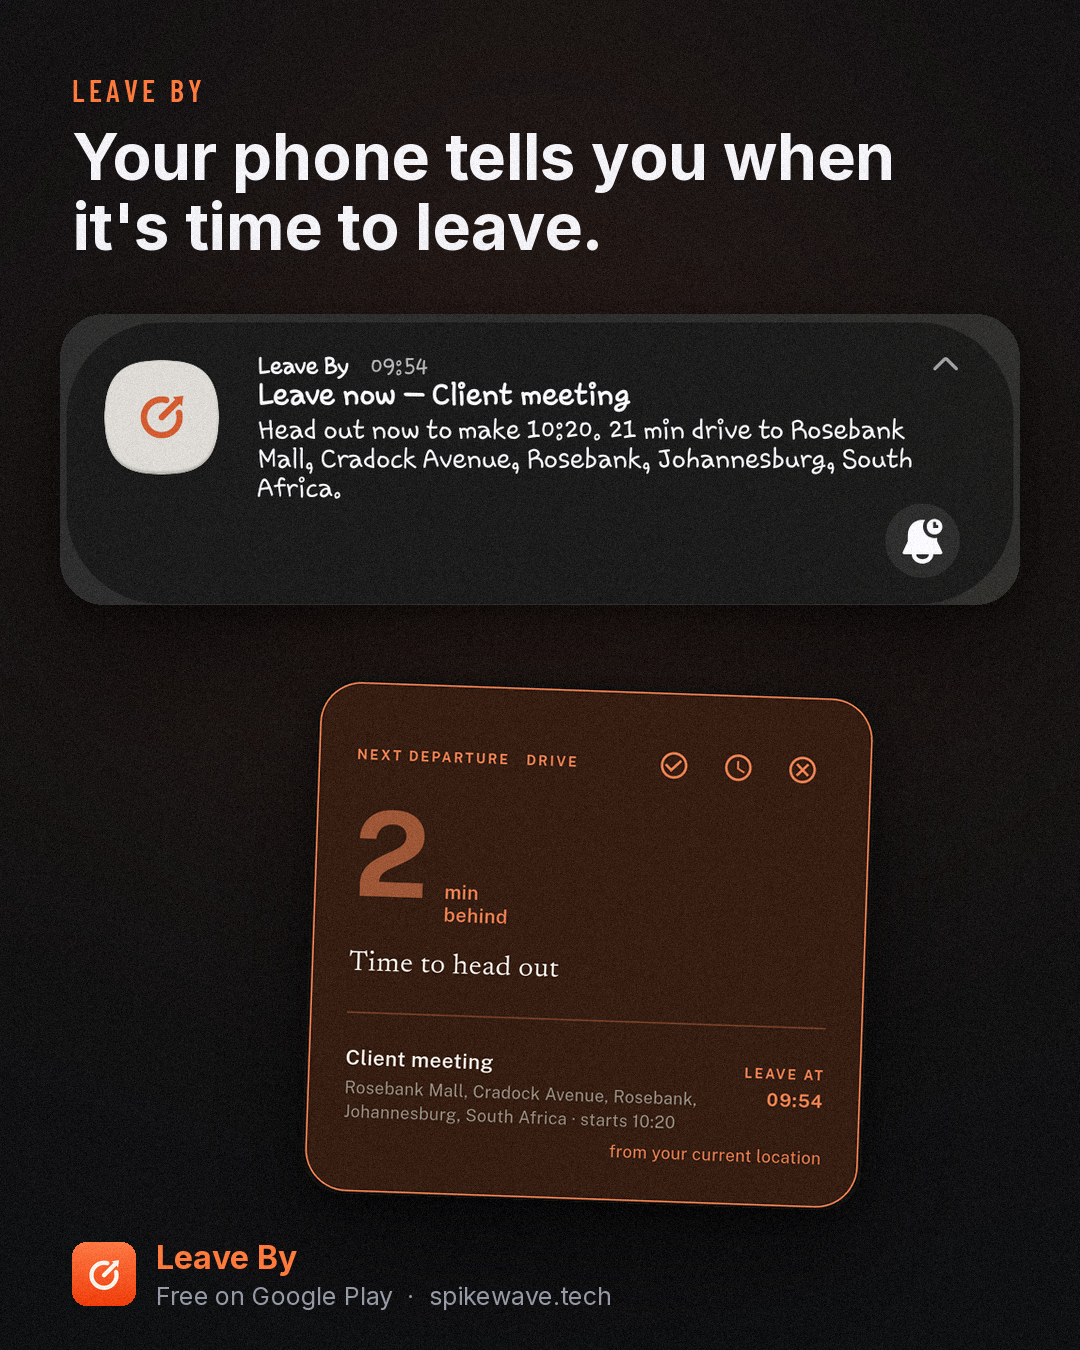
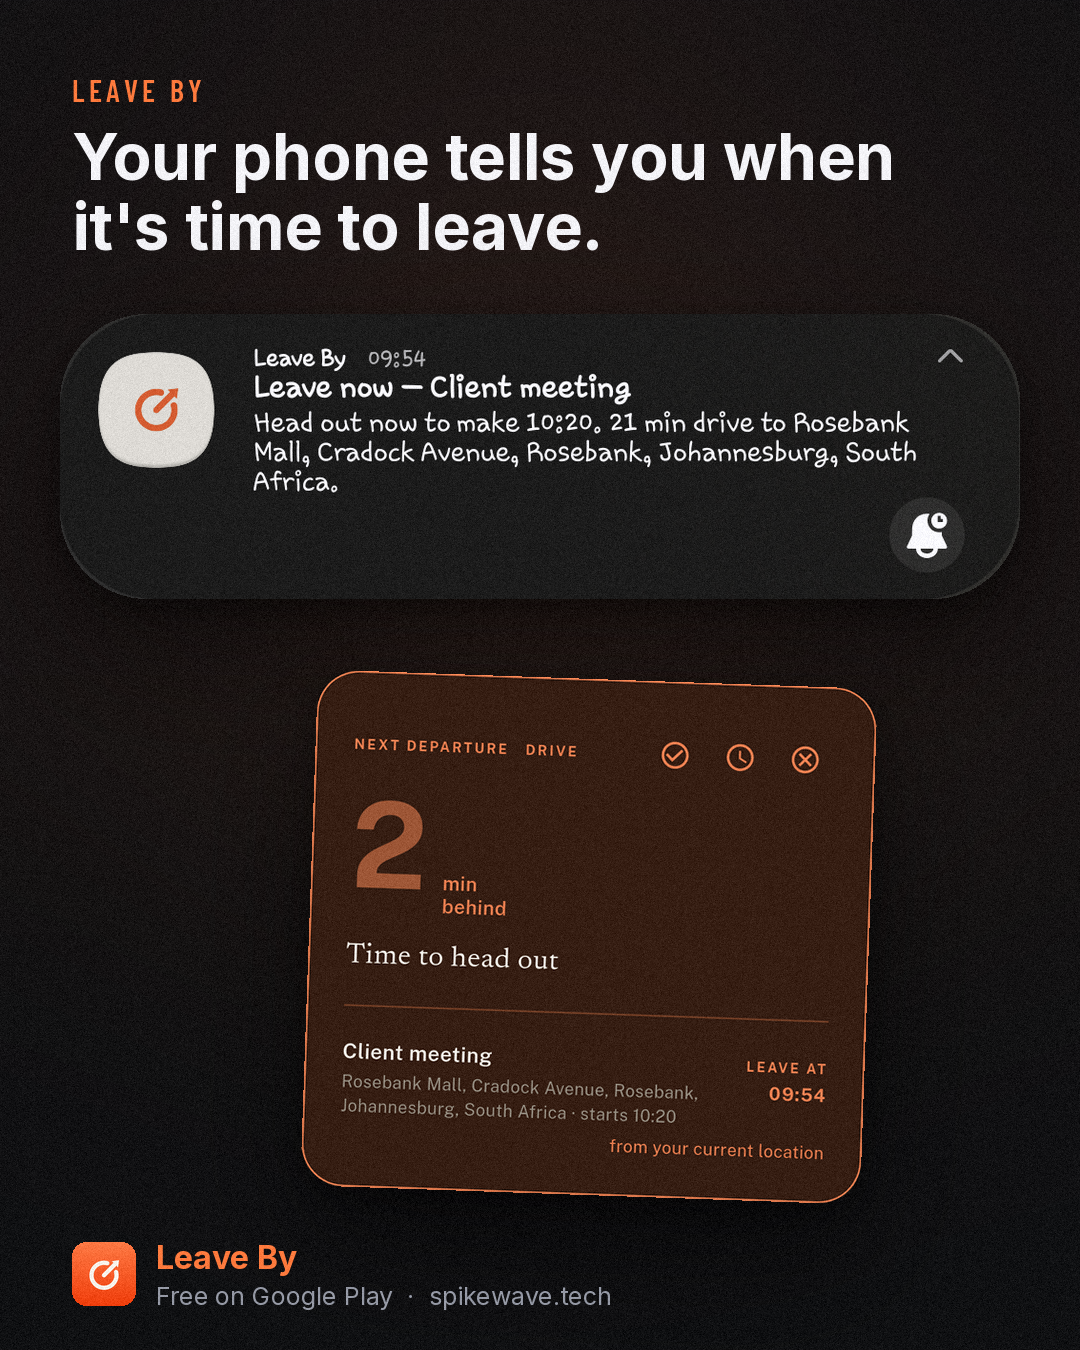
Clean edges: crop notification and Today cards exactly on their outline, round with the card's own radius

diff --git a/tooling/styles.py b/tooling/styles.py
@@ -457,12 +457,14 @@ def notif_stack(s, app):
     nw = W - 120
     nh = int(n.height * nw / n.width)
     top = y + 56
-    place(c, rounded(n.resize((nw, nh), Image.LANCZOS), 44), 60, top)
+    nr = int(s.get("notif_r", 44 * n.width / nw) * nw / n.width)  # card's own corner radius, scaled
+    place(c, rounded(n.resize((nw, nh), Image.LANCZOS), nr), 60, top)
     if s.get("card"):
         k = shot(s["card"], tuple(s["card_crop"]) if s.get("card_crop") else None)
         kw = s.get("card_w", 760)
         kh = int(k.height * kw / k.width)
-        place(c, rounded(k.resize((kw, kh), Image.LANCZOS), 40), (W - kw) // 2 + 40, top + nh + 70, s.get("card_tilt", -2))
+        kr = int(s.get("card_r", 40 * k.width / kw) * kw / k.width)
+        place(c, rounded(k.resize((kw, kh), Image.LANCZOS), kr), (W - kw) // 2 + 40, top + nh + 70, s.get("card_tilt", -2))
     if s.get("sub"):
         text_block(d, (72, H - 210), s["sub"], font("semi", 32), sub, W - 144)
     footer(c, app, app["accent"] if dark else app["ink"], (150, 154, 166) if dark else app["ink"])
